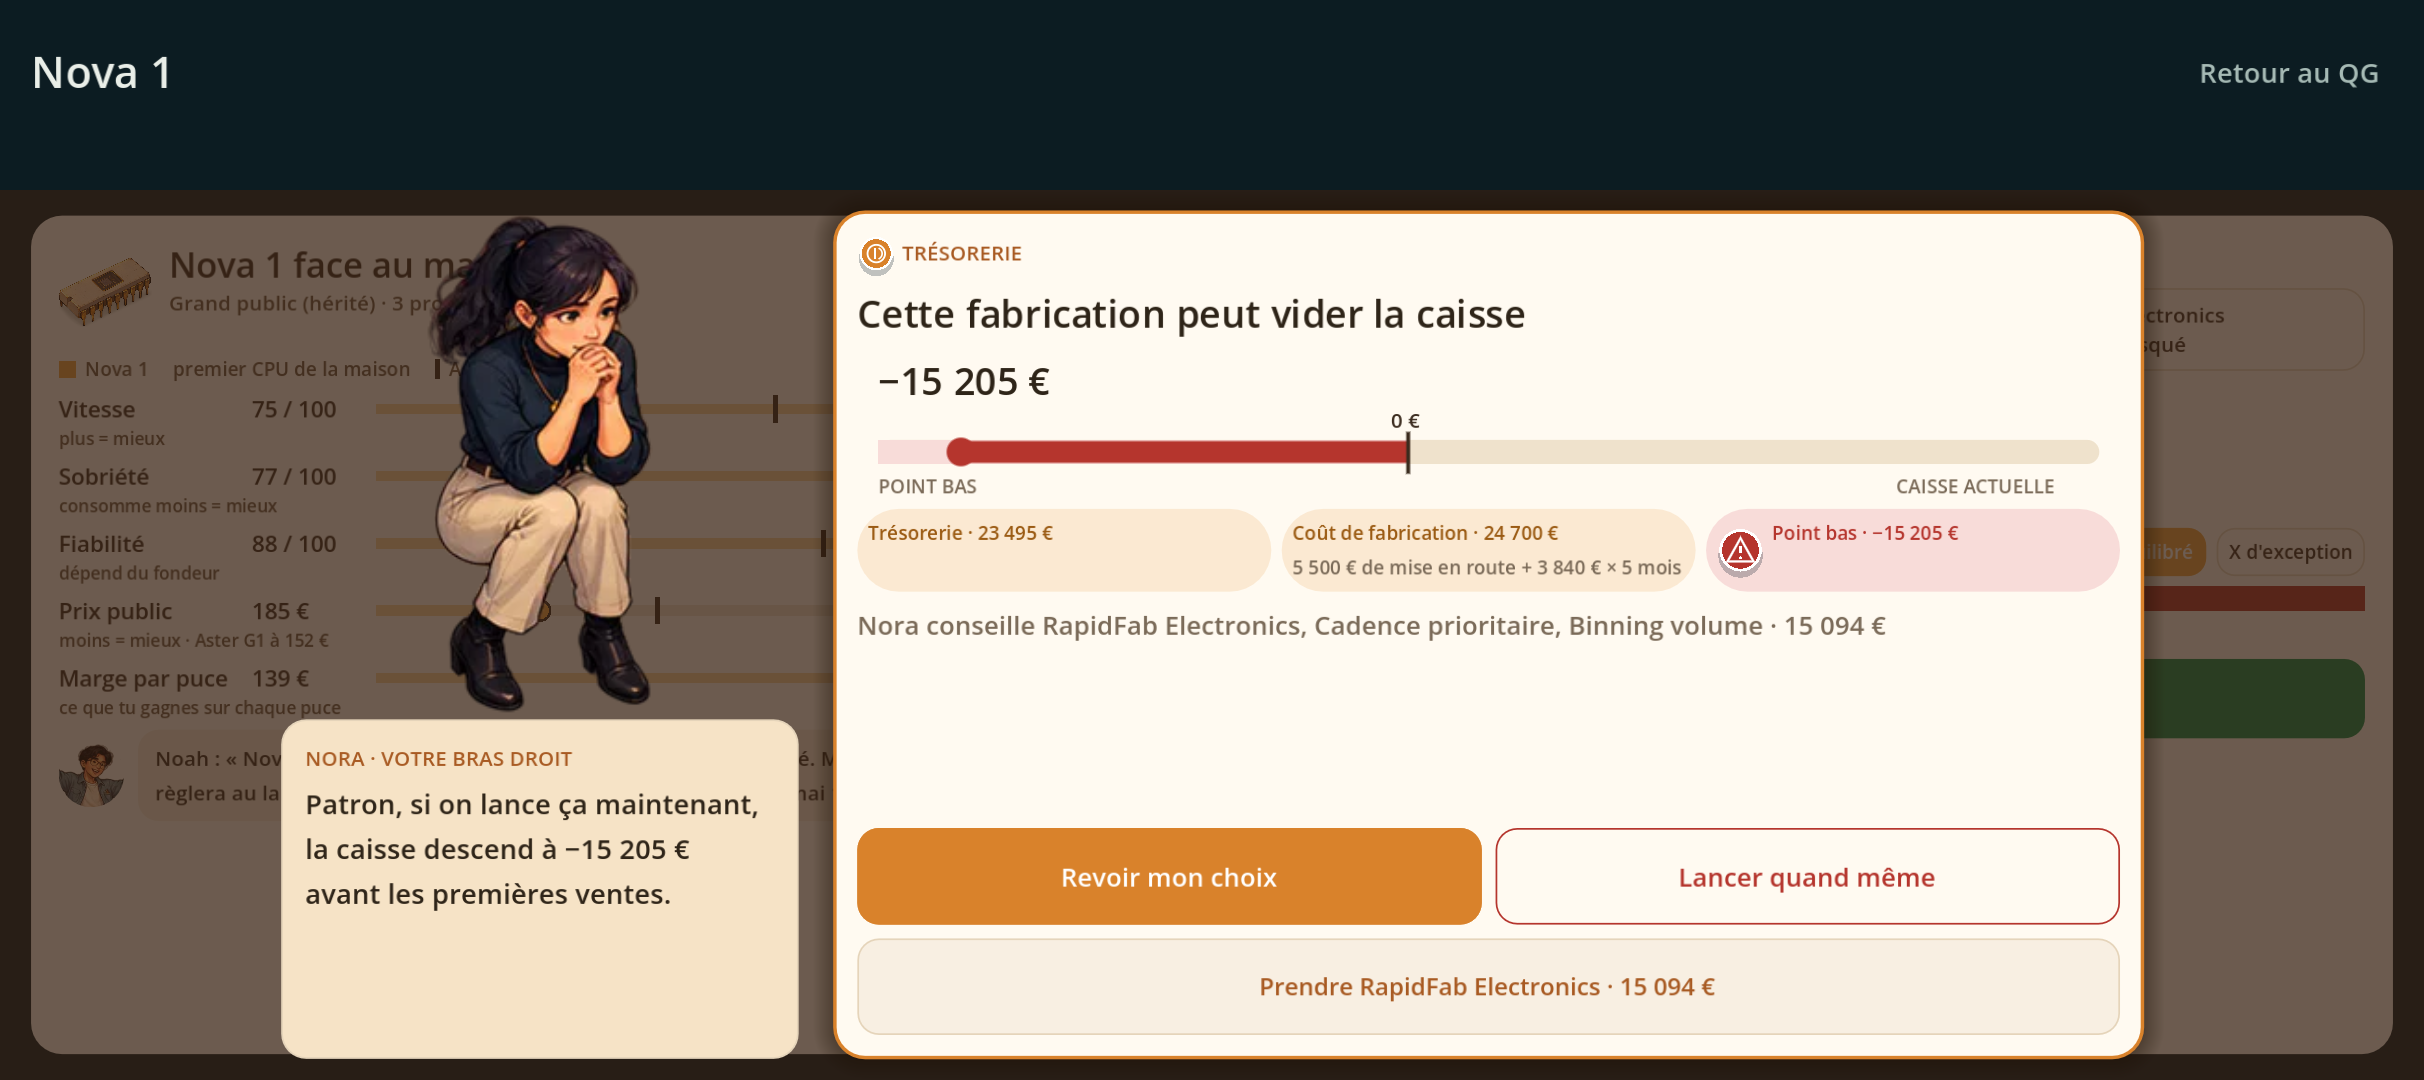
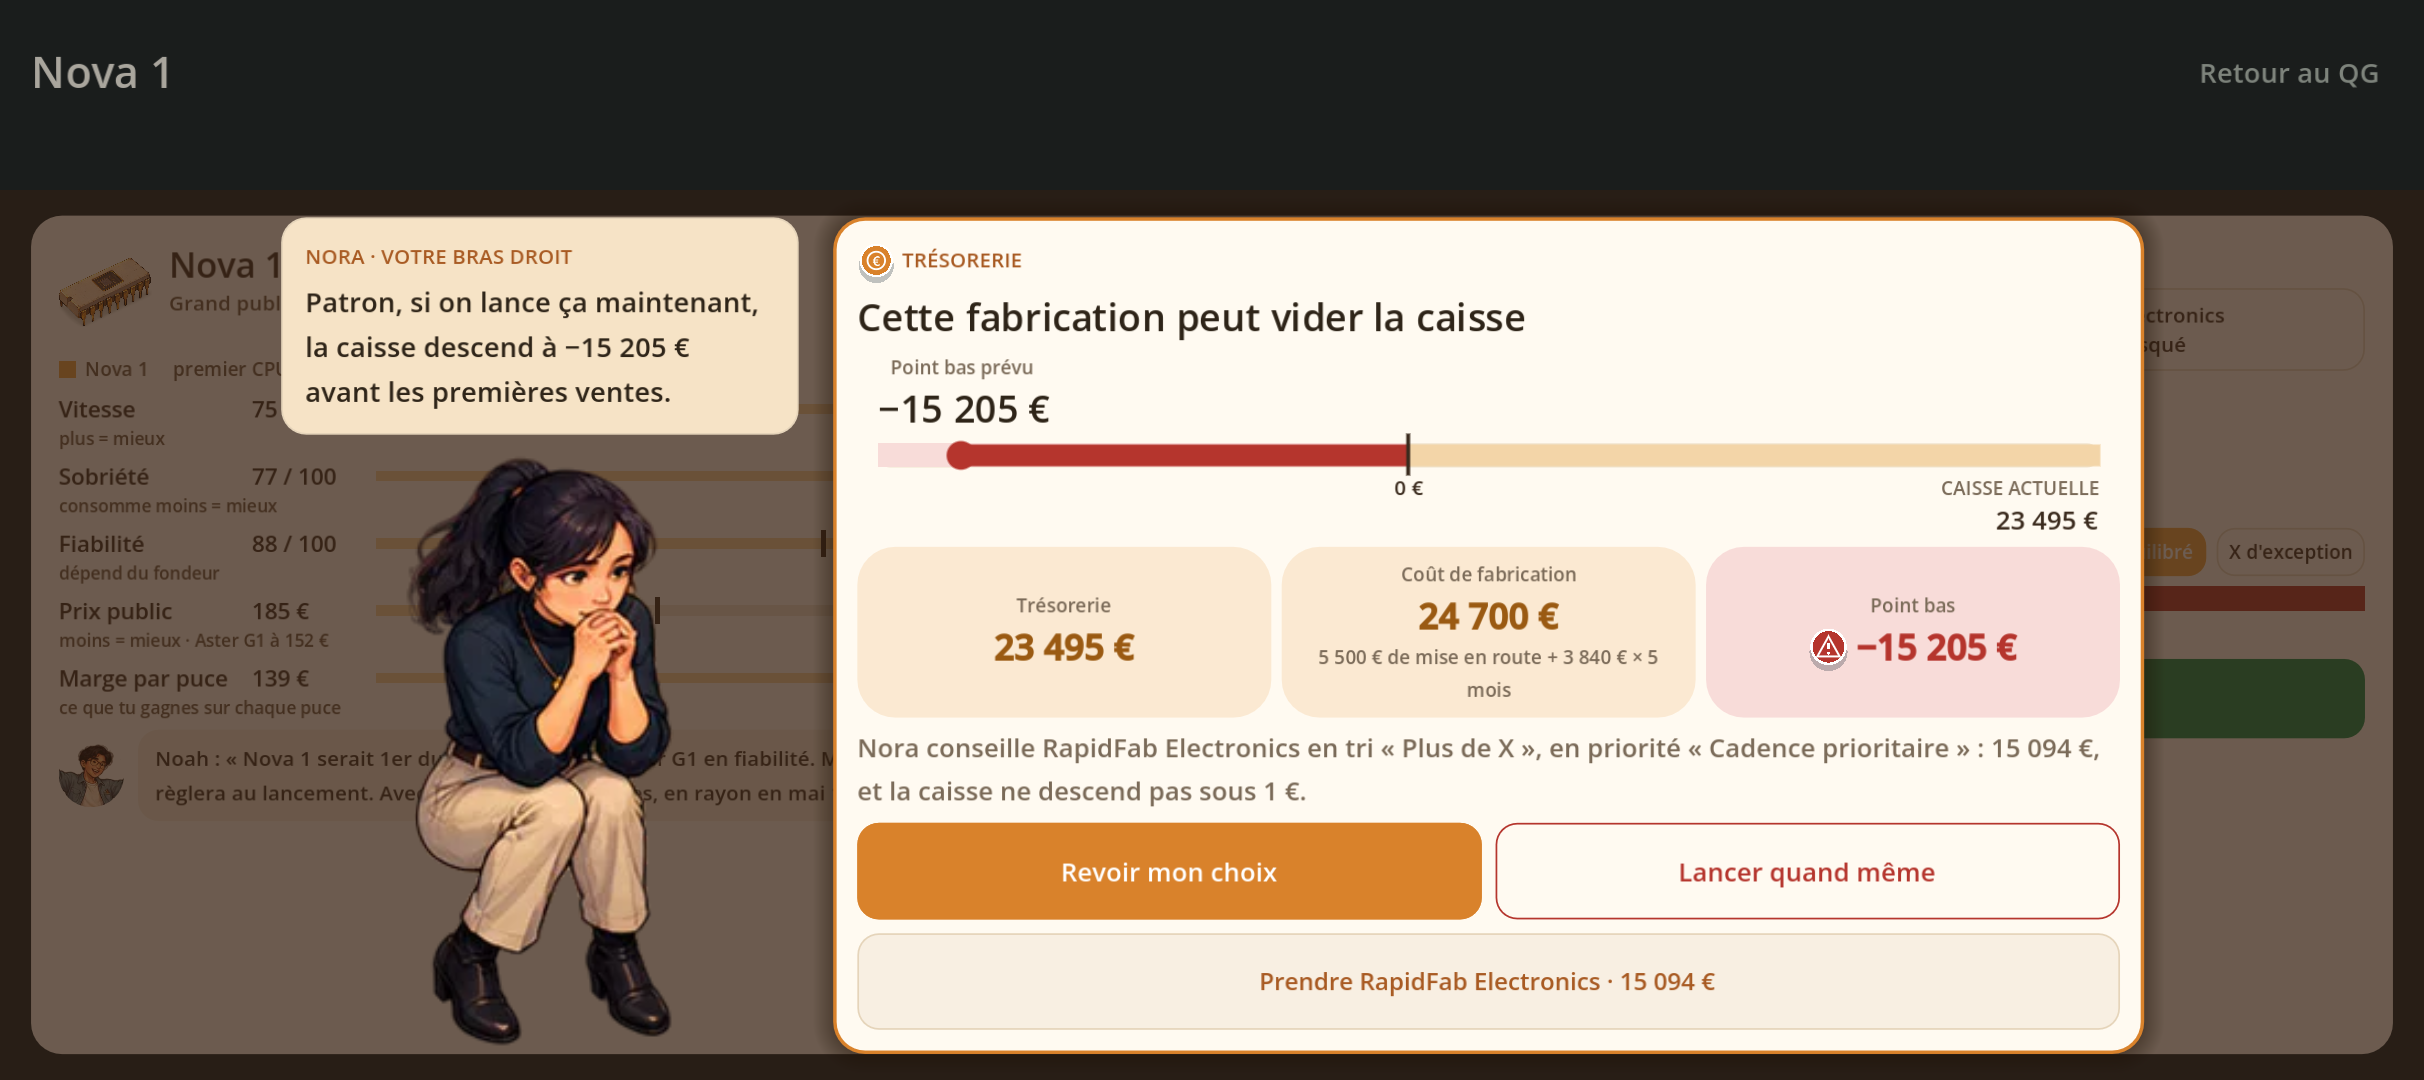
docs: renouveler les captures et la passation T-8
Agent-IA: Codex

diff --git a/docs/reviews/t8/README.md b/docs/reviews/t8/README.md
@@ -1,75 +1,66 @@
-# T-8 — scène de risque de trésorerie
+# T-8 — scène de trésorerie : finition après relecture
 
 Tâche: #138
 Auteur-IA: Codex
 Relecteur-IA: Claude
-État: à relire
+État: finitions corrigées, à relire avant fusion
 Base: v013/demo-octobre @ 798daec91b14da2eae776685839a4a89ae111fe3
 Branche: codex/t8-cash-scene
-Tests: 3 validations locales PASS sous Godot 4.7.2 ; tests ciblés et 5 captures locales PASS.
+Tests: 3 validations locales PASS (import, démarrage, smoke) sous Godot 4.7.2 ; test ciblé et captures locales PASS.
 
-## Comportement
+Le fond a été approuvé par Claude selon le retour transmis par Alexandre. Les sept finitions demandées sont traitées ; aucune approbation de la nouvelle tête n’est revendiquée.
 
-La fenêtre système est remplacée par un Control modal sous l’en-tête Atelier/Retour, avec voile brun, portrait Nora existant, bulle f6e3c6 et carte fffaf1 à bordure ambre et ombre. La jauge situe le zéro et le point bas, compte de la caisse actuelle au point bas en 0,6 s ; sous zéro, zone corail et une seule pulsation. Les entrées de voile/carte/Nora et la sortie passent par Juice ; le mode réduit affiche directement la valeur finale.
+## Résultat
 
-Revoir mon choix est l’action ambre sélectionnée par défaut ; Lancer quand même est en contour corail. Annulation commune au bouton, voile, Échap et Retour Android. Décision immédiate, fermeture en fondu, double toucher ignoré. Le bouton d’alternative prépare le fondeur, la stratégie et le binning dans les deux parcours, sans engagement, puis les met en évidence. Un nouveau clic de lancement est nécessaire. La sélection manuelle suivante rétablit le comportement équilibré initial.
+- Jauge : trace ambre pâle permanente entre zéro et caisse de départ, montant de départ sous CAISSE ACTUELLE, montant animé et « Point bas prévu » au-dessus du curseur. Police obtenue par get_theme_default_font ; alignement calculé à partir des métriques du texte.
+- Carte et bulle à la hauteur naturelle de leur contenu, plafond de 80 % avec défilement. Nora repose au bas de la carte ; en étroit, le buste est au-dessus. Les boutons restent fixes, tactiles, actifs dès l’entrée.
+- Trois pastilles de même hauteur, contenu centré verticalement : libellé muted, valeur en gras à 20, détail en petit ; triangle aligné sur la valeur.
+- Finance : pièce cerclée avec un véritable € dessiné avec la police du jeu.
+- Conseil : libellés ProductionPreview.BINNING_LABELS (« Plus de X », etc.), prix et point bas de l’alternative expliquant sa recommandation. Une priorité non équilibrée est indiquée explicitement.
+- Atelier : fondeurs × trois tris en stratégie BALANCED d’abord ; recherche toutes stratégies seulement si aucune option équilibrée n’est finançable. La note d’une option de Nora reste visible au rafraîchissement. Un clic manuel remplace l’option, revient à BALANCED et affiche « Option de Nora remplacée par votre choix » pendant 2,5 s.
+- En-tête : voile brun léger, moins sombre que le corps, cohérent avec son blocage pendant la décision.
 
-Les chiffres proviennent des devis GarageBusiness existants. cheapest_affordable_fabrication expose seulement les trois paramètres de l’option déjà calculée. ProductionPreview accepte la stratégie choisie au lieu de toujours simuler BALANCED ; aucun calcul économique ni schéma de sauvegarde modifié. fabrication_cash_text reste la source textuelle complète ; suppression de la question répétant les boutons.
+Les calculs de devis et la recherche de rentabilité restent ceux de GarageBusiness ; le paramètre balanced_first est optionnel et ne change pas le comportement du parcours IndustrializationPanel. L’alternative ne dépense ni ne lance : un autre clic reste nécessaire. Annulation commune au voile, bouton, Échap et Retour Android ; double toucher ignoré.
 
-Interactions._money reste le formateur : espaces U+00A0 pour les milliers, option currency pour le même format suivi de U+00A0 puis €. Les libellés existants d’Interactions et de fabrication_cash_text qui ajoutent € utilisent aussi U+00A0. Les autres formateurs historiques du jeu ne sont pas réécrits dans cette tâche.
+## Validation réellement exécutée
 
-## Fichiers
-
-- ui/components/CashRiskDialog.gd : composition, jauge, animations, annulation et alternative.
-- ui/GarageBadge.gd : pictogrammes finance et risque dessinés, aucun nouvel asset.
-- ui/Juice.gd : fade_out et pulse_once respectant reduced_motion.
-- ui/components/ProductionBoard.gd et IndustrializationPanel.gd : sélection sans lancement et pause restaurée.
-- scripts/GarageBusinessManager.gd : paramètres de l’alternative, format insécable et texte sans question redondante.
-- scripts/Interactions.gd : format partagé insécable.
-- scripts/ProductionPreview.gd : aperçu conforme à la stratégie sélectionnée.
-- main.gd : priorité à la fermeture du modal sur Retour Android, avant de fermer l’atelier.
-- tests/scenarios/CashSafetyScenario.gd et tests/smoke_test.gd : contrôles adaptés et tests asynchrones.
-- tests/t8_cash_scene_test.gd/.gd.uid/.tscn : test ciblé et outil de capture.
-- docs/reviews/t8/ : preuves locales et cette passation.
-
-## Validation exécutée
-
-Windows local ; Godot 4.7.2.stable.official.ed1daf0bf, sans .NET.
-Exécutable : C:/Users/Admin/.gemini/antigravity/scratch/godot/Godot_v4.7.2-stable_win64_console.exe.
+Windows local, Godot 4.7.2.stable.official.ed1daf0bf, sans .NET.
 
 - `godot --headless --path . --import` : code 0, zéro ERROR/SCRIPT ERROR.
 - `godot --headless --path . --quit-after 2` : code 0, zéro ERROR/SCRIPT ERROR.
 - `godot --headless --path . res://tests/smoke_test.tscn` : code 0, [CI] Smoke test passed, zéro ERROR/SCRIPT ERROR.
-- `godot --headless --path . res://tests/t8_cash_scene_test.tscn` : code 0 ; alternative exacte sur les deux parcours, aucun euro dépensé ni lancement, double toucher, annulation voile/Retour/bouton, animations réduites et valeur finale exacte.
+- `godot --headless --path . res://tests/t8_cash_scene_test.tscn` : code 0, zéro ERROR/SCRIPT ERROR.
 - `git diff --check` : code 0.
-- Deux WARNING d’ancres de la suite de fumée : MomentsScenario.gd:65 et LiveThemeScenario.gd:64, préexistants et hors T-8.
 
-Mesures réellement obtenues :
+Tests : les deux parcours de fabrication ; alternative et aperçu exacts sans engagement ; préférence équilibrée même face à une autre stratégie moins chère ; recours quand aucune option équilibrée ne tient ; persistance de la note, message manuel et disparition après délai ; double toucher ; annulations ; valeur finale exacte et mode réduit ; focus ; rectangles après mise en page, hauteurs naturelles, pastilles égales, bas du portrait aligné à la carte, défilement en étroit.
+
 ```
-[CI] T8: visible=(1405.217, 626.087) scene=[P: (162.6087, 122.0), S: (1080.0, 492.087)] card=(760.0, 492.087) error=
-[CI] T8 responsive: screen=(469.5652, 633.9131) scene=[P: (23.47826, 122.0), S: (422.6087, 499.9131)] card=[P: (23.47826, 277.0), S: (422.6087, 344.9131)] narrow=true
-[CI] T8 actions: PASS (both fabrication paths, exact alternative preview, zero spending/launch, immediate input, double tap, veil/back/cancel, reduced motion)
+[CI] T8 responsive: screen=(1405.217, 626.087) scene=[P: (162.6087, 170.0435), S: (1080.0, 396.0)] card=[P: (482.6087, 170.0435), S: (760.0, 396.0)] narrow=false
+[CI] T8 responsive: screen=(469.5652, 633.9131) scene=[P: (23.47826, 122.0), S: (422.6087, 499.9131)] card=[P: (23.47826, 258.0), S: (422.6087, 363.9131)] narrow=true
+[CI] T8 review: PASS (balanced option preferred over cheaper hidden strategy; fallback note survives refresh; manual replacement explained; content heights, equal chips, gauge and header checked)
 ```
 
-En paysage, carte de 760 unités, scène de 1080 unités (moins de 90 % du visible), hauteur de 492,087 (moins de 80 %). En étroit, Nora en buste au-dessus, contenu défilant, boutons fixes de 56 unités minimum. Le test vérifie les rectangles finaux, la barre de défilement et le focus.
+Deux WARNING d’ancres préexistants dans smoke : MomentsScenario.gd:65 et LiveThemeScenario.gd:64, hors T-8.
 
-## Captures reproductibles
+## Captures refaites — toutes à 1080 px de haut
 
 Pour chaque MODE :
 `godot --path . --audio-driver Dummy --rendering-method gl_compatibility res://tests/t8_cash_scene_test.tscn -- MODE`
 
-- [wide.png](wide.png) : 2424×1080, fin d’animation −2 503 €.
-- [animation.png](animation.png) : 2424×1080, capture déclenchée lorsque la valeur est strictement entre départ et arrivée.
-- [alternative.png](alternative.png) : 2424×1080, devis et alternative réellement calculés sur un fixture déterministe.
-- [narrow.png](narrow.png) : 800×1080, buste et contenu défilant.
-- [no-alternative.png](no-alternative.png) : 2424×1080, caisse nulle, aucun conseil finançable.
+- [wide](wide.png) : 2424×1080 ; point bas −2 503 € ; carte 760×485 unités, bulle 300×126, aucun vide imposé ; conseil complet et boutons visibles.
+- [animation](animation.png) : 2424×1080 ; valeur intermédiaire capturée pendant le déplacement du curseur, caisse initiale toujours affichée.
+- [alternative](alternative.png) : 2424×1080 ; cas réellement calculé où la priorité non équilibrée est le recours, avec son prix et son point bas expliqués.
+- [narrow](narrow.png) : 800×1080 ; buste au-dessus, carte 422,609×363,913 unités ; contenu défilant et actions fixes.
+- [no-alternative](no-alternative.png) : cas complémentaire réellement calculé avec caisse nulle ; carte naturellement réduite à 396 unités de haut.
 
-Rendu OpenGL de compatibilité sur Intel UHD 630, audio Dummy pour éviter le périphérique audio indisponible du PC. Tous les rendus finaux : code 0, zéro ERROR. Les captures wide/animation/narrow reprennent explicitement les chiffres du cas Pixel T7 dans un devis de présentation ; l’alternative est calculée par la source réelle, d’où son prix différent de l’ancienne partie Nova. Les captures alternative/no-alternative utilisent des devis intégralement calculés. Ce sont des captures locales, pas des captures Android ni une partie Pixel.
+Rendu OpenGL de compatibilité sur Intel UHD 630, audio Dummy. Les captures wide/animation/narrow reprennent explicitement les chiffres du cas Pixel T7 dans un devis de présentation ; les alternatives sont calculées par le moteur. Les cas alternative/no-alternative utilisent des devis intégralement calculés. Aucun de ces visuels ne constitue une capture Android.
 
-## Coordination et limites
+## Portée et coordination
 
-Inventaire initial paginé : PR brouillons #82/#89, sans chevauchement. #136 terminée et fermée avec commentaire de fusion #137 @ 798daec selon arbitrage explicite d’Alexandre. Réservation #138 étendue à main.gd et ProductionPreview avant modification. Le précontrôle est refait avant push.
+Réservation #138, zones inchangées et contrôlées. Reprise à la tête de #139 fdf7eae, inventaire paginé et précontrôle avec resume-pr réussis avant édition : PR concurrentes #82/#89 sans conflit. #136 est terminée et fermée selon l’arbitrage d’Alexandre.
 
-Autorisations : branche, commits, push et PR brouillon seulement. Aucun skip ci, fusion, build stable ou installation. Version inchangée 0.13.3-demo / 28. Aucune lecture ou modification de sauvegarde personnelle ; les outils de capture désactivent l’écriture.
+Fichiers repris pour la finition : CashRiskDialog.gd, ProductionBoard.gd, GarageBusinessManager.gd, GarageBadge.gd, CashSafetyScenario.gd, t8_cash_scene_test.gd, captures et passation. Les autres fichiers de T-8 restent dans le diff initial de #139.
 
-À vérifier par Claude : relecture indépendante, tenue des styles dans l’écran complet, Retour matériel et défilement au doigt sur Android après un futur build/installation autorisés. L’intégration Android n’est pas revendiquée par les captures locales.
+Pas de skip ci, fusion, build stable, installation, nouvelle PR, modification de version ou de schéma de sauvegarde. Aucun fichier personnel ni donnée du Pixel touché. Les captures désactivent l’écriture des sauvegardes.
+
+À faire : relecture indépendante des finitions par Claude, puis essai tactile Android après autorisation séparée de build/installation. Les formateurs historiques hors Interactions et de ses consommateurs ne sont pas réécrits.
